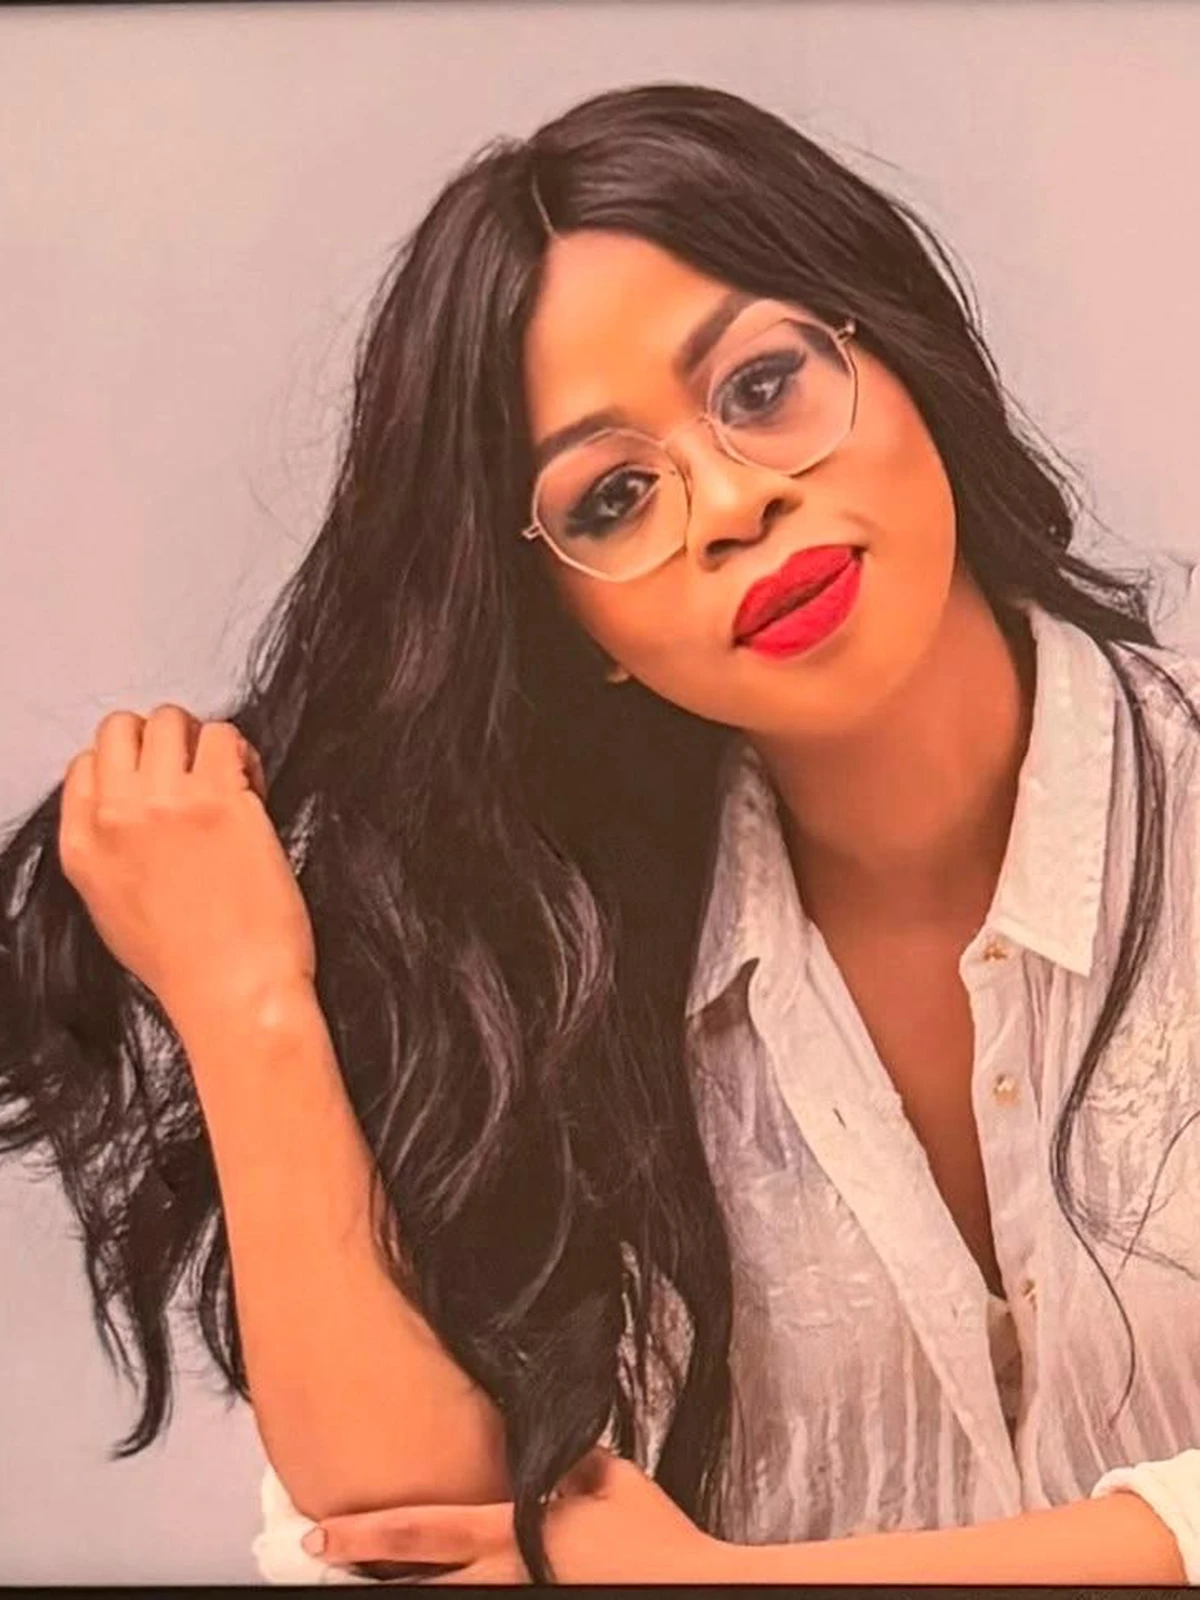
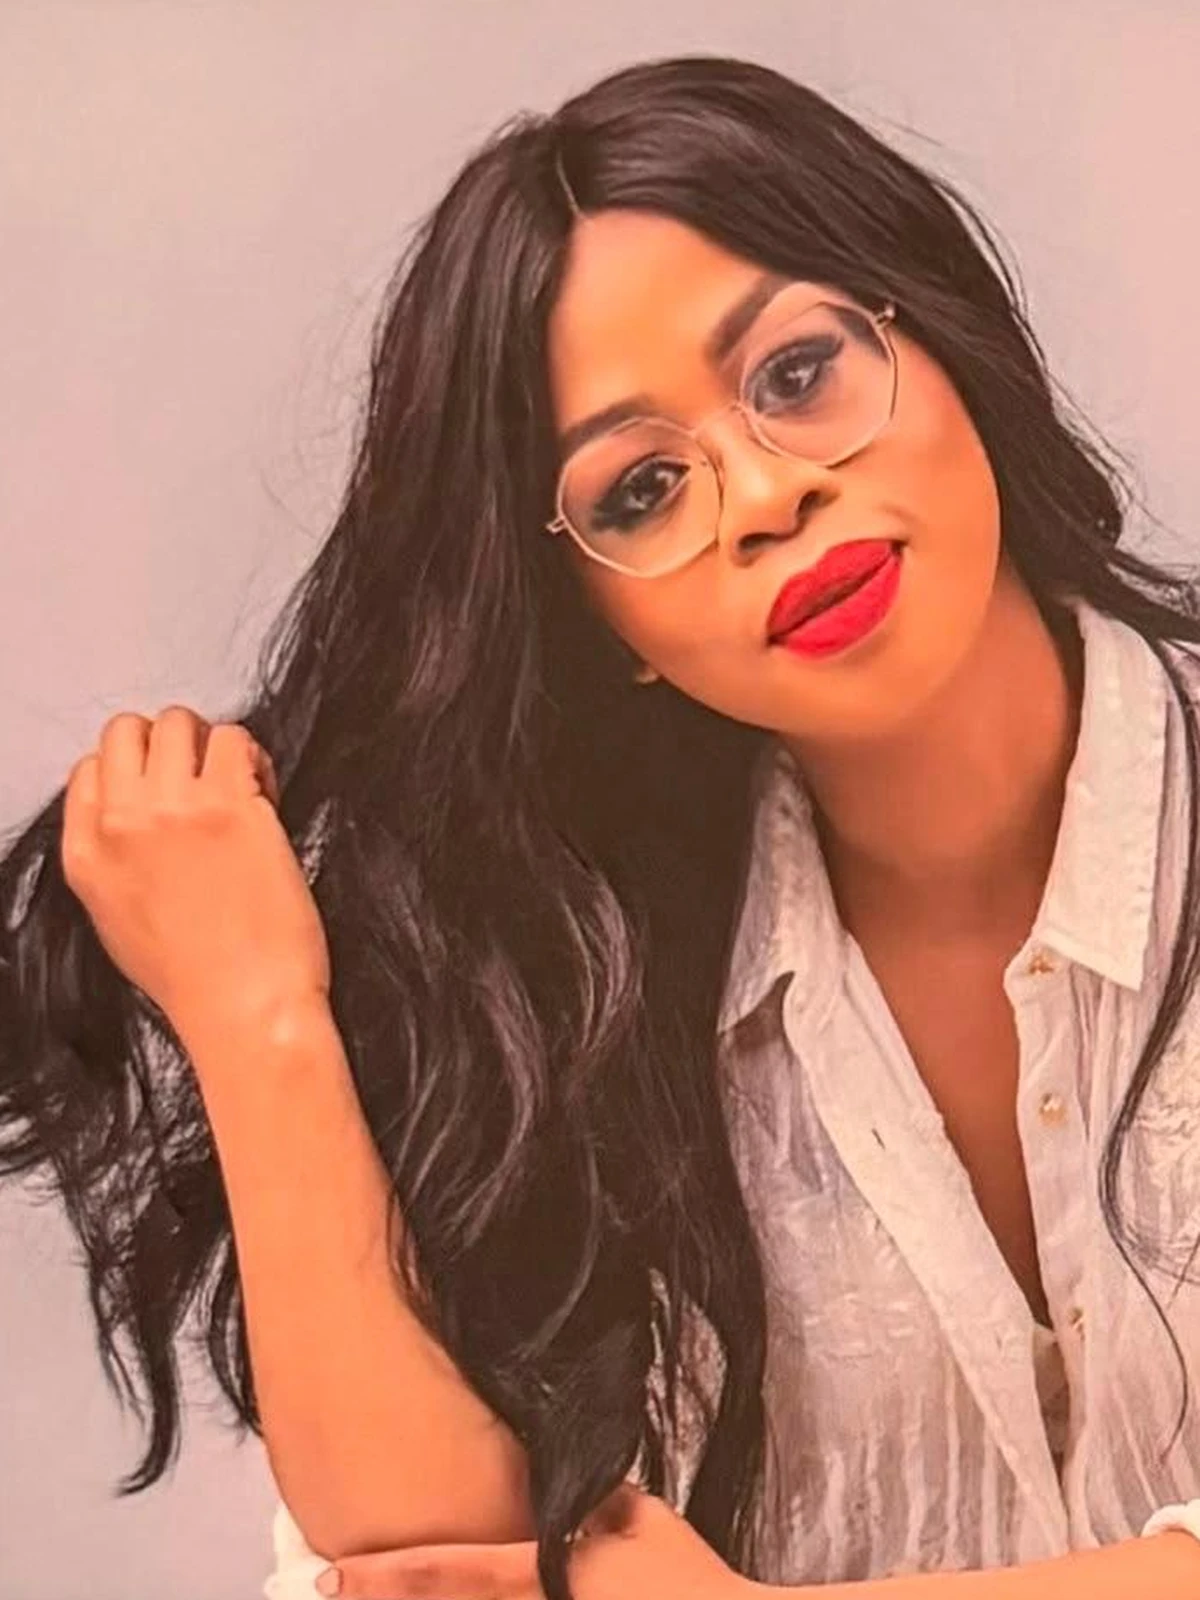
Remove em dashes from site copy, tighten Julie's photo crop
Em dashes read as AI-generated to visitors, so all site copy now uses
plain commas/periods instead (customer review wording is unchanged,
only punctuation). Julie's About-section photo is cropped a touch
tighter to remove the hint of the picture frame at top and bottom.

diff --git a/components/reviews.tsx b/components/reviews.tsx
@@ -5,7 +5,7 @@ const FB_PAGE = "https://www.facebook.com/profile.php?id=100028607544927"
 // Real Facebook reviews (lightly tidied for spelling/caps, wording unchanged)
 const REVIEWS = [
   {
-    q: "Definitely found a new place to get my weave in — my hair looks gorgeous… The staff was very welcoming and polite. Great customer service. I left the shop a very satisfied customer.",
+    q: "Definitely found a new place to get my weave in, my hair looks gorgeous… The staff was very welcoming and polite. Great customer service. I left the shop a very satisfied customer.",
     n: "Larelle Ellsworth",
   },
   {
@@ -13,7 +13,7 @@ const REVIEWS = [
     n: "Rachael Keighley",
   },
   {
-    q: "Luv my daughter's hair — had so many people asking where she got it done. Beautiful results.",
+    q: "Luv my daughter's hair, had so many people asking where she got it done. Beautiful results.",
     n: "Dinky Campbell",
   },
 ]
@@ -43,7 +43,7 @@ export function Reviews() {
         {REVIEWS.map((r, i) => (
           <Reveal key={r.n} delay={0.15 + i * 0.1} className="tst-card">
             <p className="tst-quote">“{r.q}”</p>
-            <span className="tst-name">— {r.n}, via Facebook</span>
+            <span className="tst-name">{r.n}, via Facebook</span>
           </Reveal>
         ))}
       </div>

diff --git a/components/about.tsx b/components/about.tsx
@@ -11,9 +11,9 @@ export function About() {
             <h2 className="pg-h2">Making Shipley look beautiful, one style at a time</h2>
           </div>
           <p className="pg-body" style={{ marginBottom: 18 }}>
-            At Julie&apos;s Hair Salon every hair type is welcome — from fine, straight hair to curls, coils
+            At Julie&apos;s Hair Salon every hair type is welcome, from fine, straight hair to curls, coils
             and afro textures (types 1&ndash;4). From protective braids and crochet styles to weaving
-            extensions and nourishing treatments, every appointment starts with a personal consultation — so
+            extensions and nourishing treatments, every appointment starts with a personal consultation, so
             you leave with a style that&apos;s truly yours.
           </p>
           <p className="pg-body" style={{ marginBottom: 18 }}>

diff --git a/components/offers.tsx b/components/offers.tsx
@@ -1,7 +1,7 @@
 import { Reveal } from "@/components/reveal"
 
 const OFFERS = [
-  { tag: "New Clients", title: "15% off your first visit", desc: "A little welcome from us — mention this offer when you book." },
+  { tag: "New Clients", title: "15% off your first visit", desc: "A little welcome from us, mention this offer when you book." },
   { tag: "Midweek", title: "Wash, cut & blow-dry £30", desc: "Tuesday to Thursday appointments only." },
   { tag: "Bundle", title: "Braids + treatment, save £10", desc: "Book any braid style with a hair treatment together." },
 ]

diff --git a/components/highlights.tsx b/components/highlights.tsx
@@ -10,7 +10,7 @@ const HL_DATA = [
   {
     icon: <HeartIcon width={24} height={24} />,
     title: "Every Hair Type Welcome",
-    desc: "From fine and straight to curls, coils and afro textures — Julie styles hair types 1 to 4.",
+    desc: "From fine and straight to curls, coils and afro textures, Julie styles hair types 1 to 4.",
   },
   {
     icon: <SparklesIcon width={24} height={24} />,
